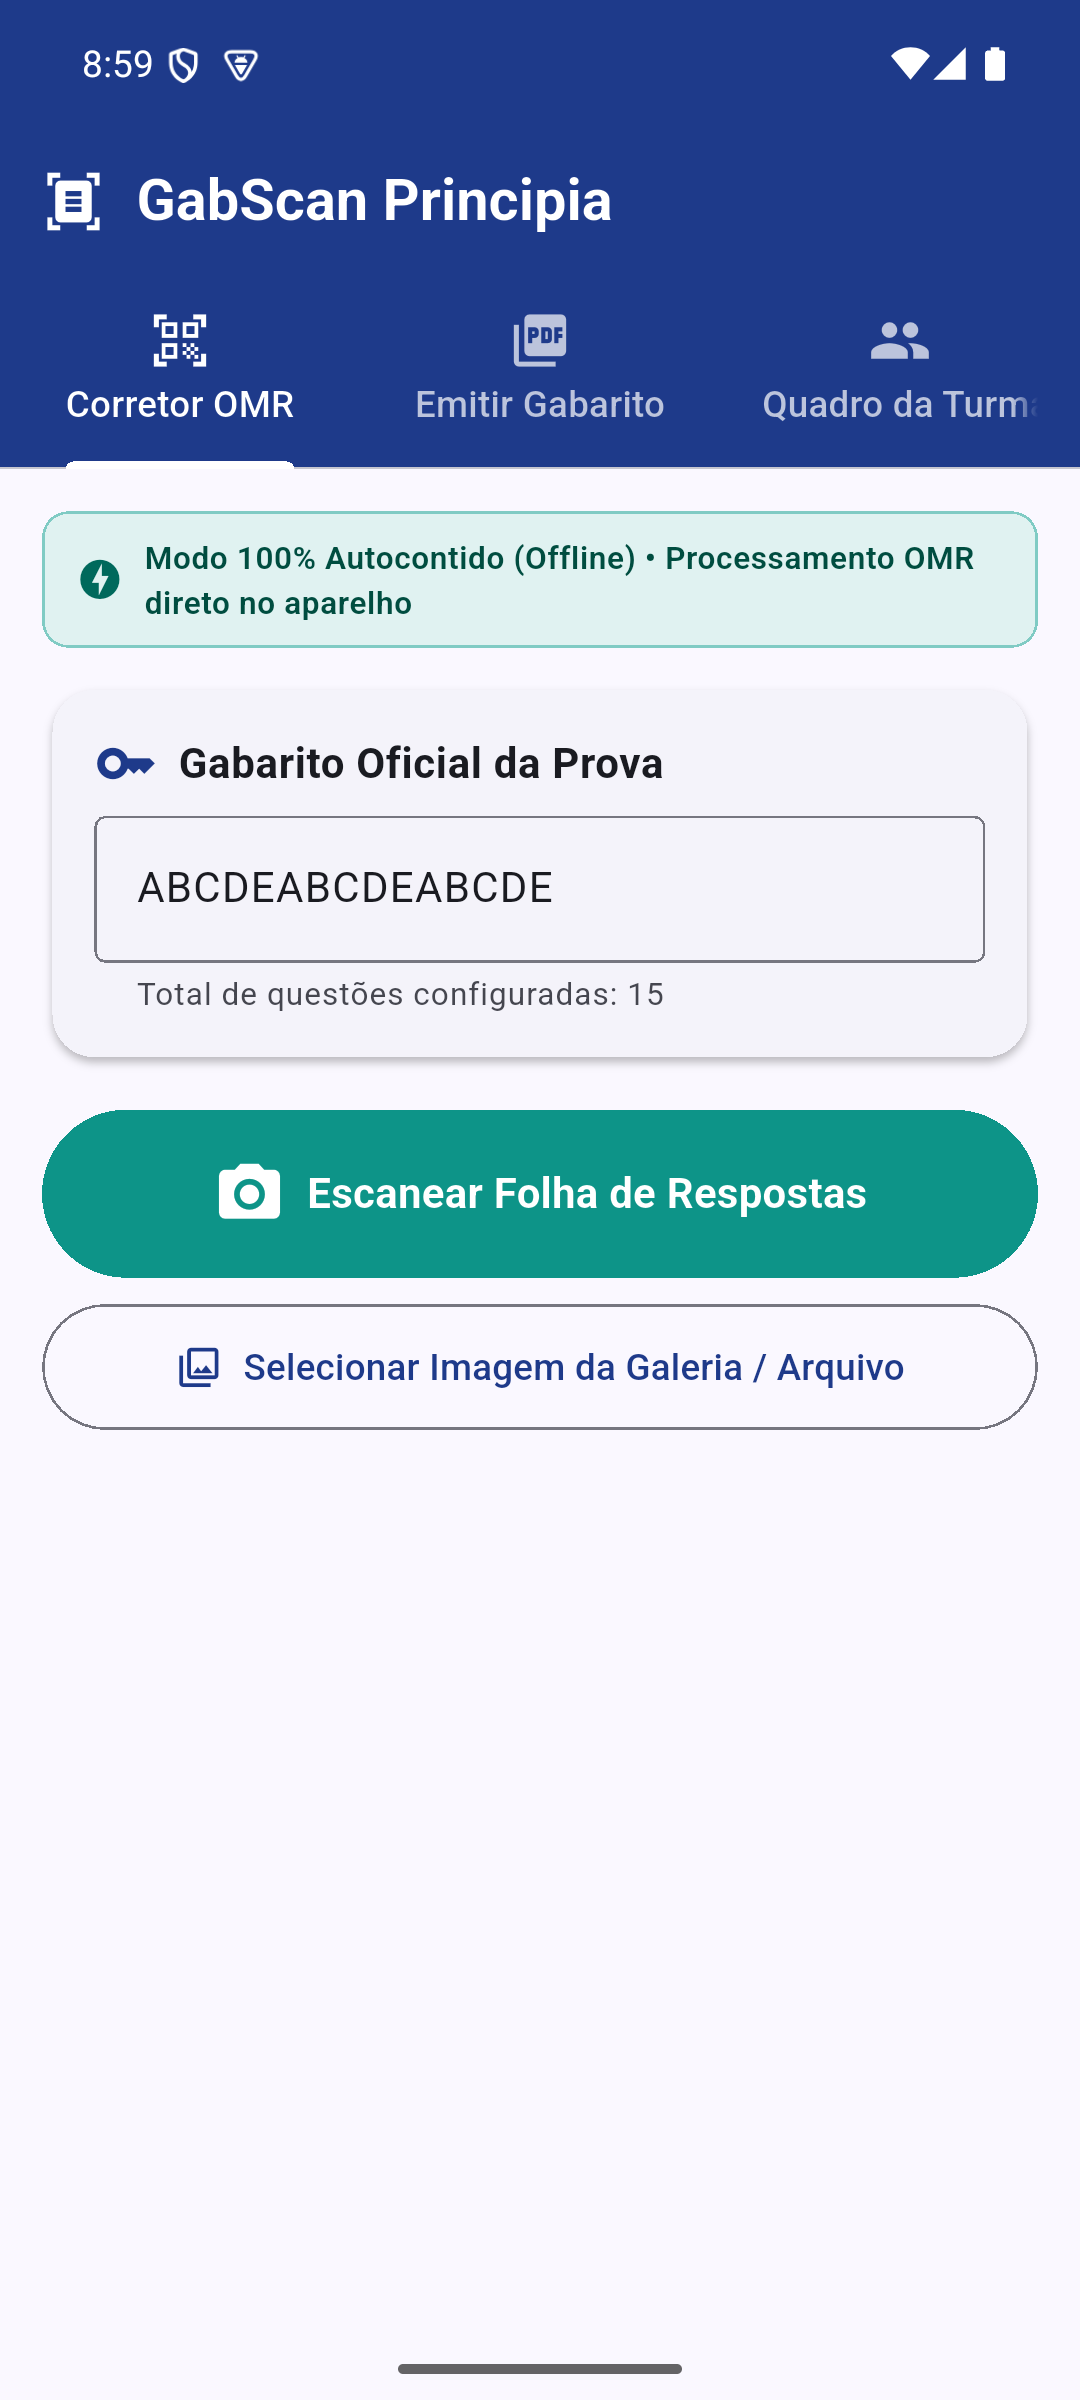
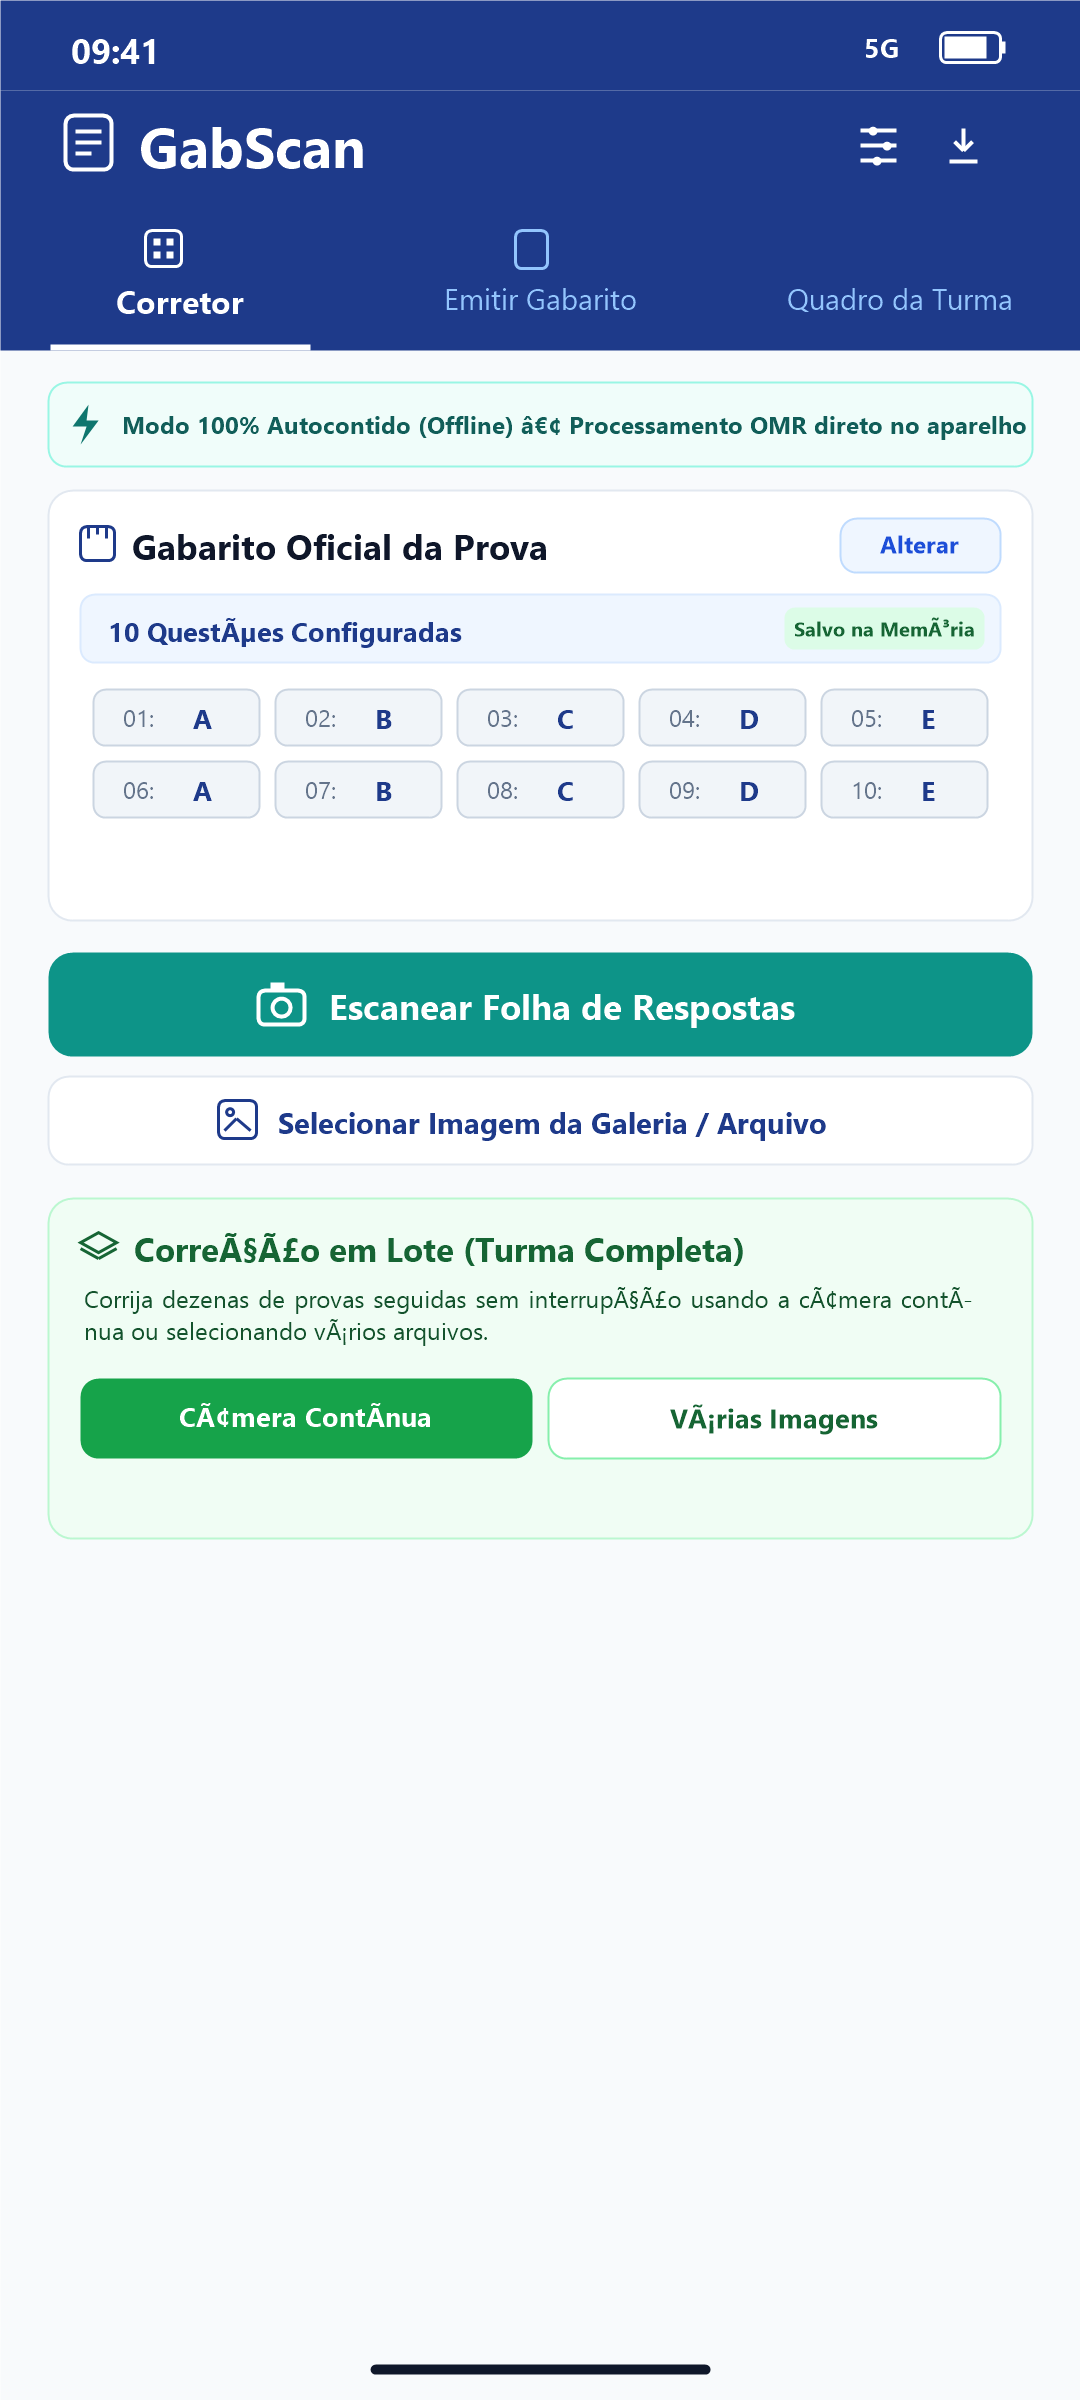
fix(site): atualiza screenshot da tela principal para v1.3.9 e adiciona cache-busting

diff --git a/index.html b/index.html
@@ -634,7 +634,7 @@
 
         <div class="hero-mockup-wrapper">
           <div class="hero-mockup">
-            <img src="assets/screenshot_1_1080x2400.png" alt="Tela do GabScan Corretor">
+            <img src="assets/screenshot_1_1080x2400.png?v=1.3.9" alt="Tela do GabScan Corretor">
           </div>
         </div>
       </div>
